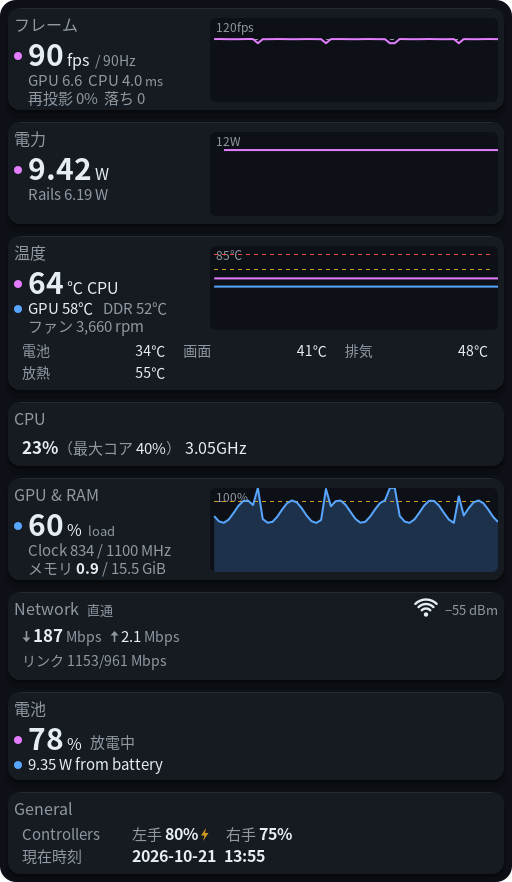
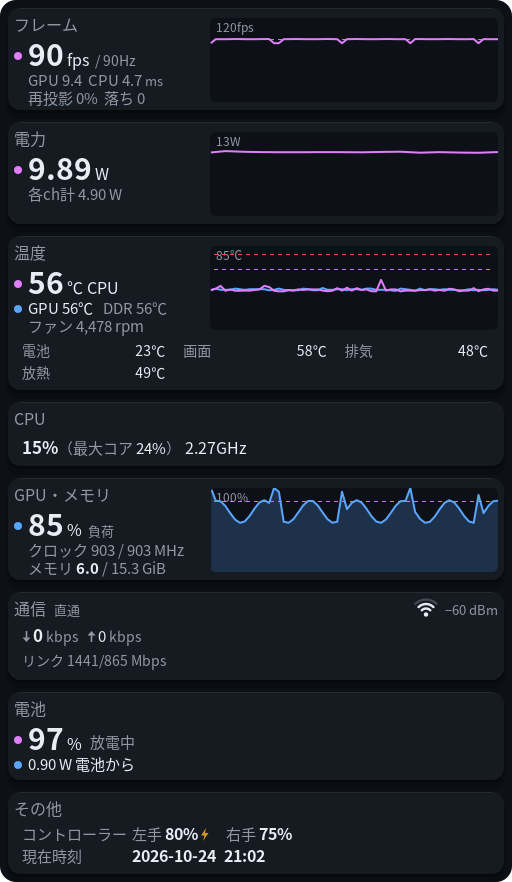
README の日本語版と画像を、ウィジェットを並べるパネルに合わせる
- README.ja.md に PR #4 で README.md に足された説明（ウィジェット、レイアウト・プロファイルのページ、設定のキー、開発用のオプション）を日本語で足した
- 両方の README の古くなっていたところ（「全ch計」、フレームの段、値が出ないときの表示）を直した
- 謝辞に finaea さん（PR #4）を足した
- docs/images の画像を日本語の文言が入った版で描き直した

diff --git a/README.md b/README.md
@@ -205,8 +205,8 @@ The **Autostart** switch in the dashboard runs the same `enable` / `disable` (wi
 - **Update fails or gets stuck**: check `~/.cache/frame-perf-overlay/update.log` (also shown in the bar's error message) and `journalctl --user -u frame-perf-overlay-update`. A failed or interrupted update leaves the current version untouched.
 - **No panel**: check that SteamVR is running (the app waits for it and never starts it by itself), that **Show** is on in the Perf tab, and that the service is running (`systemctl --user status frame-perf-overlay`). If you launched it from **+** while it was already running, that hid the panel; launch it again to show it.
 - **Not in the + list**: run `./install.sh` again and check that `~/.local/share/applications/frame-perf-overlay.desktop` exists.
-- **`--` instead of a value**: that sensor wasn't found or couldn't be read. The sensors are looked up by name when the app starts, so a SteamOS update that renames one shows up this way. `frame-perf-overlay --print` lists what was found.
-- **"No SteamVR" in the frame row**: the app isn't connected to SteamVR yet. It retries every 3 seconds.
+- **`--` or "N/A: sensor not found" / "read failed" instead of a value**: that sensor wasn't found or couldn't be read. The sensors are looked up by name when the app starts, so a SteamOS update that renames one shows up this way. `frame-perf-overlay --print` lists what was found.
+- **"No SteamVR" in the Frame card**: the app isn't connected to SteamVR yet. It retries every 3 seconds.
 - **Wrong font or boxes instead of text**: check `font` / `font_bold` in the settings file.
 
 ## How accurate the values are
@@ -223,7 +223,7 @@ Some values were checked against another source on a Steam Frame; others are est
 
 **Estimates**
 
-- **Power**: which circuit each power channel measures isn't documented. The main rail looks like the total supply, but that is a guess, and the "all channels" sum may count some power twice.
+- **Power**: which circuit each power channel measures isn't documented. The main rail (vph) looks like the total supply, but that is a guess. The "Rails" sum adds the channels measured under it, and whether they cover every circuit is unknown.
 - **GPU load**: the GPU time per frame that SteamVR measures, multiplied by the app's frame rate. It counts only the VR app and the SteamVR compositor (not other programs using the GPU), is capped at 100 % when GPU work overlaps, and shows `--` without SteamVR. So it isn't the GPU usage of the whole headset. The kernel's per-process GPU counters, which this used before, aren't used: on SteamOS 0.5.6 they are broken or miss most of a heavy game's work.
 - **fps while streaming with Steam Link**: not yet checked whether frames dropped on the PC or on the network always show up as a lower fps.
 - **Wireless throughput**: counts all traffic on the direct wireless link, not only the stream. On **Wi-Fi** it is everything the headset sends and receives over Wi-Fi (downloads, other apps and so on), not only Steam Link.
@@ -315,3 +315,4 @@ MIT. See [LICENSE](LICENSE). `vendor/frame-updater/` is a copy of the author's o
 
 - Wrist attachment, the clock and the tilt fade were contributed by [TaiKeid](https://github.com/TaiKeid) in [#1](https://github.com/sasaken1102r/frame-perf-overlay/pull/1).
 - The smaller release build, the faster RGBA conversion and the extra tests were contributed by [cinnacappu](https://github.com/cinnacappu) in [#2](https://github.com/sasaken1102r/frame-perf-overlay/pull/2).
+- The widget layout, the layout editor and profiles were contributed by [finaea](https://github.com/finaea) in [#4](https://github.com/sasaken1102r/frame-perf-overlay/pull/4).
